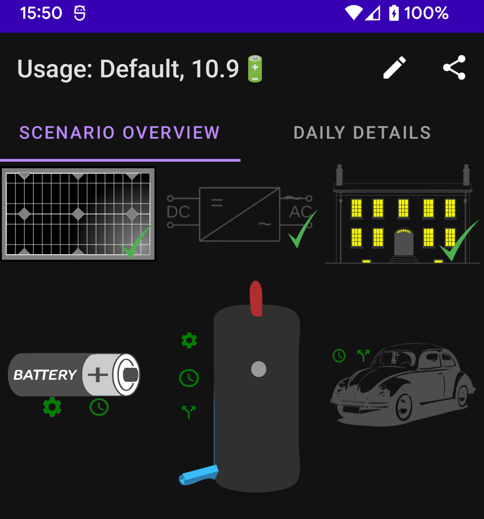
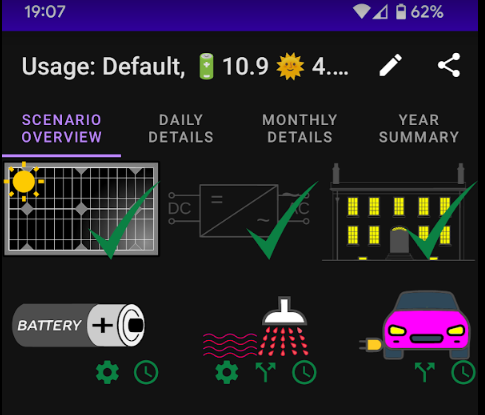
Adding purchase shifting

diff --git a/README.md b/README.md
@@ -50,6 +50,8 @@ The button images in the view/edit usage correspond to the usage areas above. A 
 
 The green icons on the battery, hot water and EV indicate that settings, schedules and diversions have been configured (or not, shaded icons).
 
+The orange sun on the panels lets you know that PV data is associated with the solar panels.
+
 Once the mandatory areas are configured, the app will automatically simulate usage and generate costs (at least one cost must be defined) for a single year. When simulation is complete some key overview indicators are provided.
 
 ![KeyIndicators](./images/KeyIndicators.png)
@@ -58,7 +60,7 @@ Once the mandatory areas are configured, the app will automatically simulate usa
 * The amount of generated electricity (if applicable) used and exported
 * The amount of used electricity that was purchased and generated
 
-The DAILY DETAILS tab will also be populated when the simulation is complete. You can navigate the simulation output to get an insight into why the costs are the way they are.
+The DAILY DETAILS, MONTHLY ROLLUP and YEAR SUMMARY tabs will also be populated when the simulation is complete. You can navigate the simulation output to get an insight into why the costs are the way they are.
 ![DailyDetails](./images/DailyDetails.png)
 ### Usage area details
 A usage must be saved with a unique name before adding any usage area. Newly created usage will be in edit mode already. 
@@ -113,7 +115,7 @@ When editing, you can import, copy, link delete and add an inverter.
 Multiple hybrid string inverters are quite tricky in the real world. Please get professional advice before having more than one inverter attached to you home.
 
 #### Solar Panels
-Solar panels are connected to inveter ports (MPPT -- Maximum Power Point Tracking). To distinguish different strings a name is needed. The number of panels in a string and the maximim power output is needed. When a panel (string) is fully configured the monthly generation is shown at the bottom of the screen.
+Solar panels are connected to inveter ports (MPPT -- Maximum Power Point Tracking). To distinguish different strings a name is needed. The number of panels in a string and the maximim power output is needed. When a panel (string) is fully configured the monthly generation is shown at the bottom of the screen. A usage with panels, but no generation data is not eligible for comparison.
 
 ![PanelOverview](./images/PanelOverview.png)
 
@@ -155,8 +157,15 @@ Editing the battery allows for import, copy, link add and delete.
 ![Add](./images/AddFAB.png)
 
 
-##### Battery charging from grid schedule
-Load shifting (scheduled charging the battery from the grid) will be added in a later varsion of the app.
+##### Scheduling battery charging from grid (Purchase shifting)
+Purchase shifting (scheduled charging of the battery from the grid) can make a huge difference to the annual cost, and repayment time -- if there is a big difference between hourly rates.
+
+![BatterySchedule](./images/BatteryCharging.png)
+
+Battery charging schedules must be associated with an inverter. You may have several batteries associated with an inverter, they will all be charged/discharged together.
+
+Charging schedules are applied on a day-of-week and month-of-year basis. New schedules can be created using the + button (when editing). On any given day multiple charging sessions can be defined. Each session includes a maximum charge point. All batteries associated with an inverter will not service house load during a charging session, even if the maximum has been achieved.
+
 #### Hot water
 Hot water systems will be added in a later version of the app.
 #### Electric Vehicle
